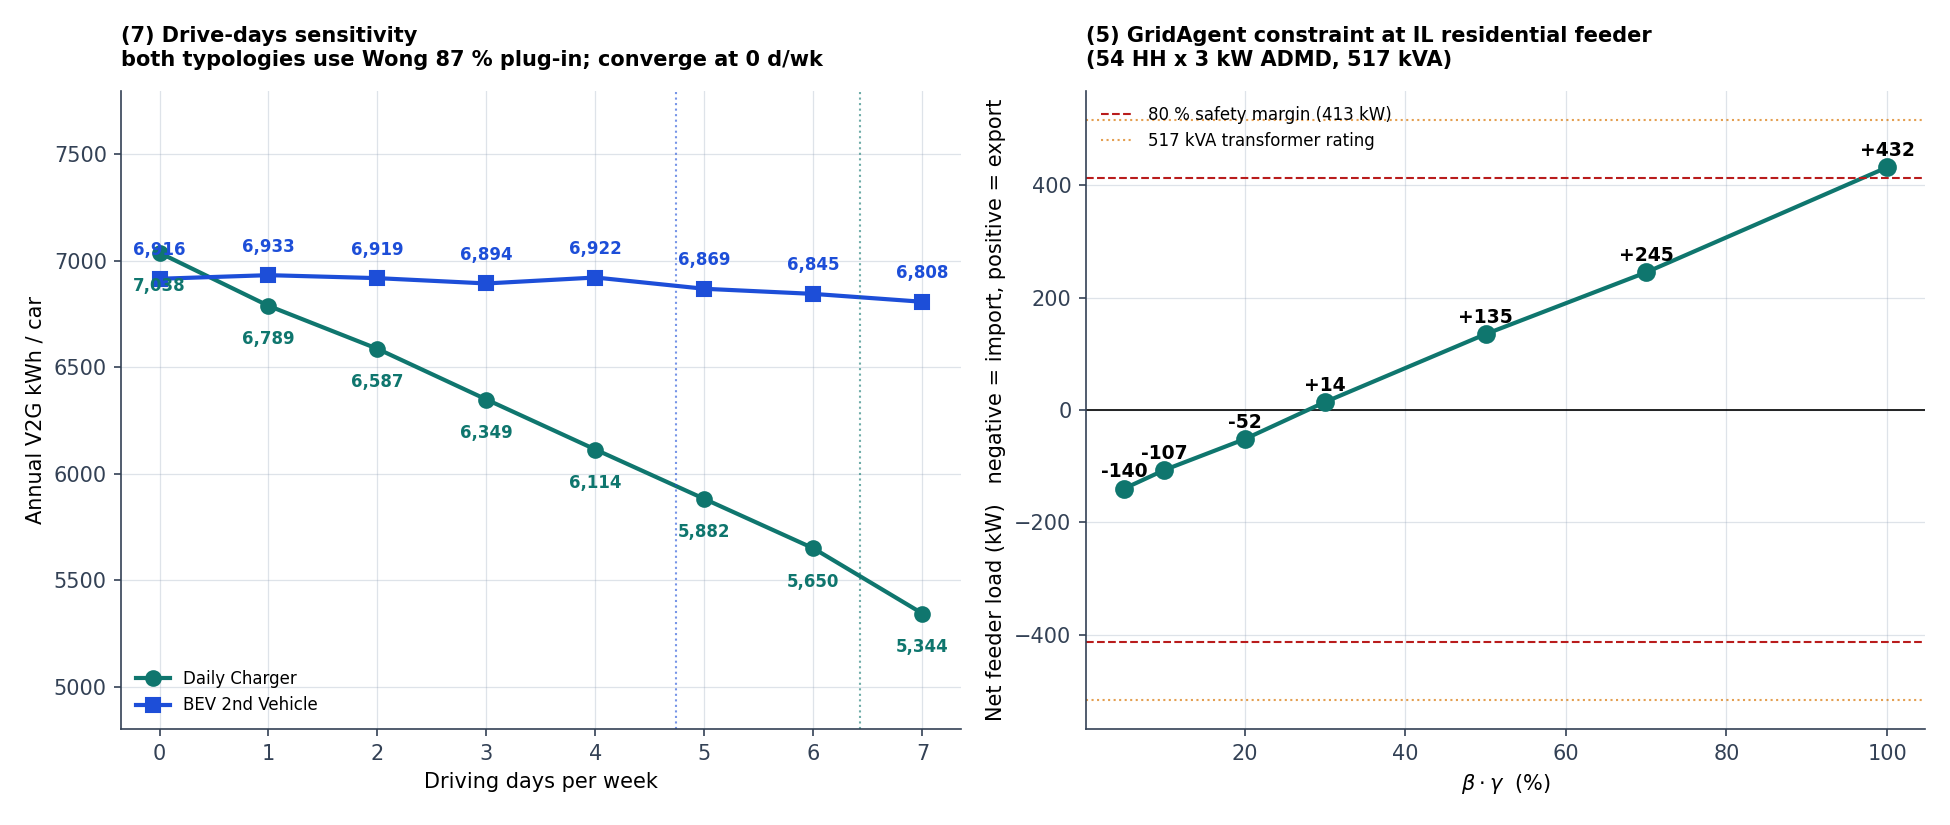
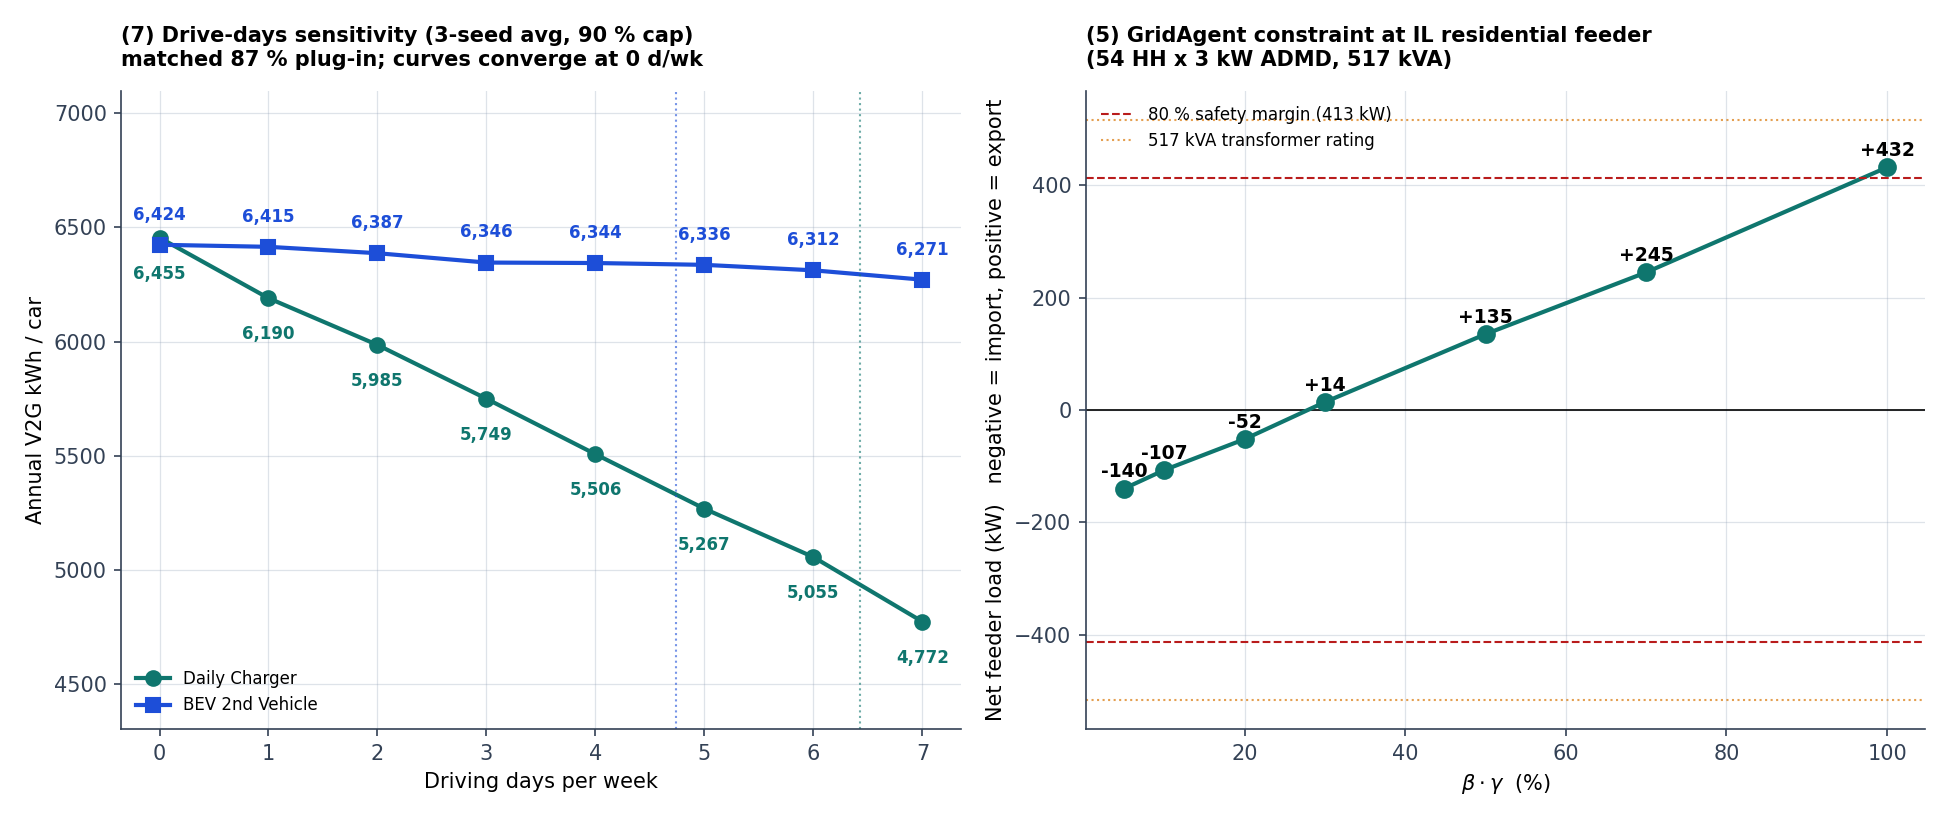
drive-days re-run + comment cleanup
drive-days re-run + comment cleanup

diff --git a/src/plot_w10h_aging_wong.py b/src/plot_w10h_aging_wong.py
@@ -66,6 +66,8 @@ TYPOLOGIES = list(WONG_V2G_KWH_PER_YEAR.keys())
 
 OUT = (Path(__file__).resolve().parent.parent
        / "outputs" / "w10h_aging_wong.png")
+OUT_ACTIVE = (Path(__file__).resolve().parent.parent
+       / "outputs" / "w10h_aging_wong_active.png")
 
 
 def split_losses(typology: str, chemistry: str, cf: str) -> tuple[float, float]:
@@ -99,10 +101,12 @@ COLORS = {
 }
 
 
-def main() -> None:
-    fig, ax = plt.subplots(figsize=(15, 7.2))
+def main(typologies=None, out=None) -> None:
+    typologies = typologies or TYPOLOGIES
+    out = out or OUT
+    fig, ax = plt.subplots(figsize=(15 if len(typologies) > 2 else 9.5, 7.2))
 
-    n_typ = len(TYPOLOGIES)
+    n_typ = len(typologies)
     bar_w = 0.13
     typ_centers = np.arange(n_typ) * 1.4
     chem_offset = {"NMC_B1": -0.27, "LFP": +0.27}
@@ -112,7 +116,7 @@ def main() -> None:
         for k, cf in enumerate(CFS):
             xs = typ_centers + chem_offset[chem] + (k - 1) * bar_w
             cal_vals, cyc_vals, totals, tags = [], [], [], []
-            for typ in TYPOLOGIES:
+            for typ in typologies:
                 cal, cyc = split_losses(typ, chem, cf)
                 cal_vals.append(cal); cyc_vals.append(cyc)
                 totals.append(cal + cyc)
@@ -137,7 +141,7 @@ def main() -> None:
                             fontweight="bold", color=color)
 
     ax.set_xticks(typ_centers)
-    ax.set_xticklabels([t.replace(" ", "\n") for t in TYPOLOGIES], fontsize=10.5)
+    ax.set_xticklabels([t.replace(" ", "\n") for t in typologies], fontsize=10.5)
 
     ax.axhline(100 - EOL_SOH_PCT, color="#1e293b", linestyle="--", linewidth=1.0)
     ax.text(typ_centers[-1] + 0.62, 100 - EOL_SOH_PCT + 0.35,
@@ -163,9 +167,10 @@ def main() -> None:
              ha="center", fontsize=8.5, color=PALETTE["neutral"])
 
     fig.tight_layout(rect=(0, 0.045, 1, 1))
-    fig.savefig(OUT)
-    print(f"Saved {OUT}")
+    fig.savefig(out)
+    print(f"Saved {out}")
 
 
 if __name__ == "__main__":
     main()
+    main(typologies=["Daily Charger", "BEV 2nd Vehicle"], out=OUT_ACTIVE)

diff --git a/src/plot_w12t_sensitivity_split.py b/src/plot_w12t_sensitivity_split.py
@@ -113,11 +113,13 @@ def panel_return_home(ax):
 
 def panel_drive_days(ax):
     drive_days = np.array([0, 1, 2, 3, 4, 5, 6, 7])
-    # Real ABM 120-agent sweep with 87 % BEV plug-in, per-opted-in,
-    # matched target_soc.  BEV curve is flat because BEV drives
-    # 22 km/day vs DC 40 km/day.
-    dc_v2g  = np.array([7038, 6789, 6587, 6349, 6114, 5882, 5650, 5344])
-    bev_v2g = np.array([6916, 6933, 6919, 6894, 6922, 6869, 6845, 6808])
+    # Real ABM 120-agent sweep, 3-seed average, 90 % max_soc cap,
+    # per-opted-in, matched plug-in (87 %) and target_soc.  Curves
+    # converge at 0 drive-days (+0.5 %); the gap at higher drive-days
+    # comes from km/day (40 vs 22) and the later return hour (18:00
+    # vs 16:00, missing the first peak hour).
+    dc_v2g  = np.array([6455, 6190, 5985, 5749, 5506, 5267, 5055, 4772])
+    bev_v2g = np.array([6424, 6415, 6387, 6346, 6344, 6336, 6312, 6271])
     ax.plot(drive_days, dc_v2g,  "-o", color="#0f766e",
             linewidth=2, markersize=7, label="Daily Charger")
     ax.plot(drive_days, bev_v2g, "-s", color="#1d4ed8",
@@ -132,13 +134,13 @@ def panel_drive_days(ax):
                 fontweight="bold", color="#1d4ed8")
     ax.set_xlabel("Driving days per week", fontsize=10)
     ax.set_ylabel("Annual V2G kWh / car", fontsize=10)
-    ax.set_title("(7) Drive-days sensitivity\n"
-                 "both typologies use Wong 87 % plug-in; converge at 0 d/wk",
+    ax.set_title("(7) Drive-days sensitivity (3-seed avg, 90 % cap)\n"
+                 "matched 87 % plug-in; curves converge at 0 d/wk",
                  fontsize=10, fontweight="bold")
     ax.set_xticks(drive_days)
     ax.legend(fontsize=8, loc="lower left")
     ax.grid(True, alpha=0.3)
-    ax.set_ylim(4800, 7800)
+    ax.set_ylim(4300, 7100)
 
 
 def panel_grid(ax):
